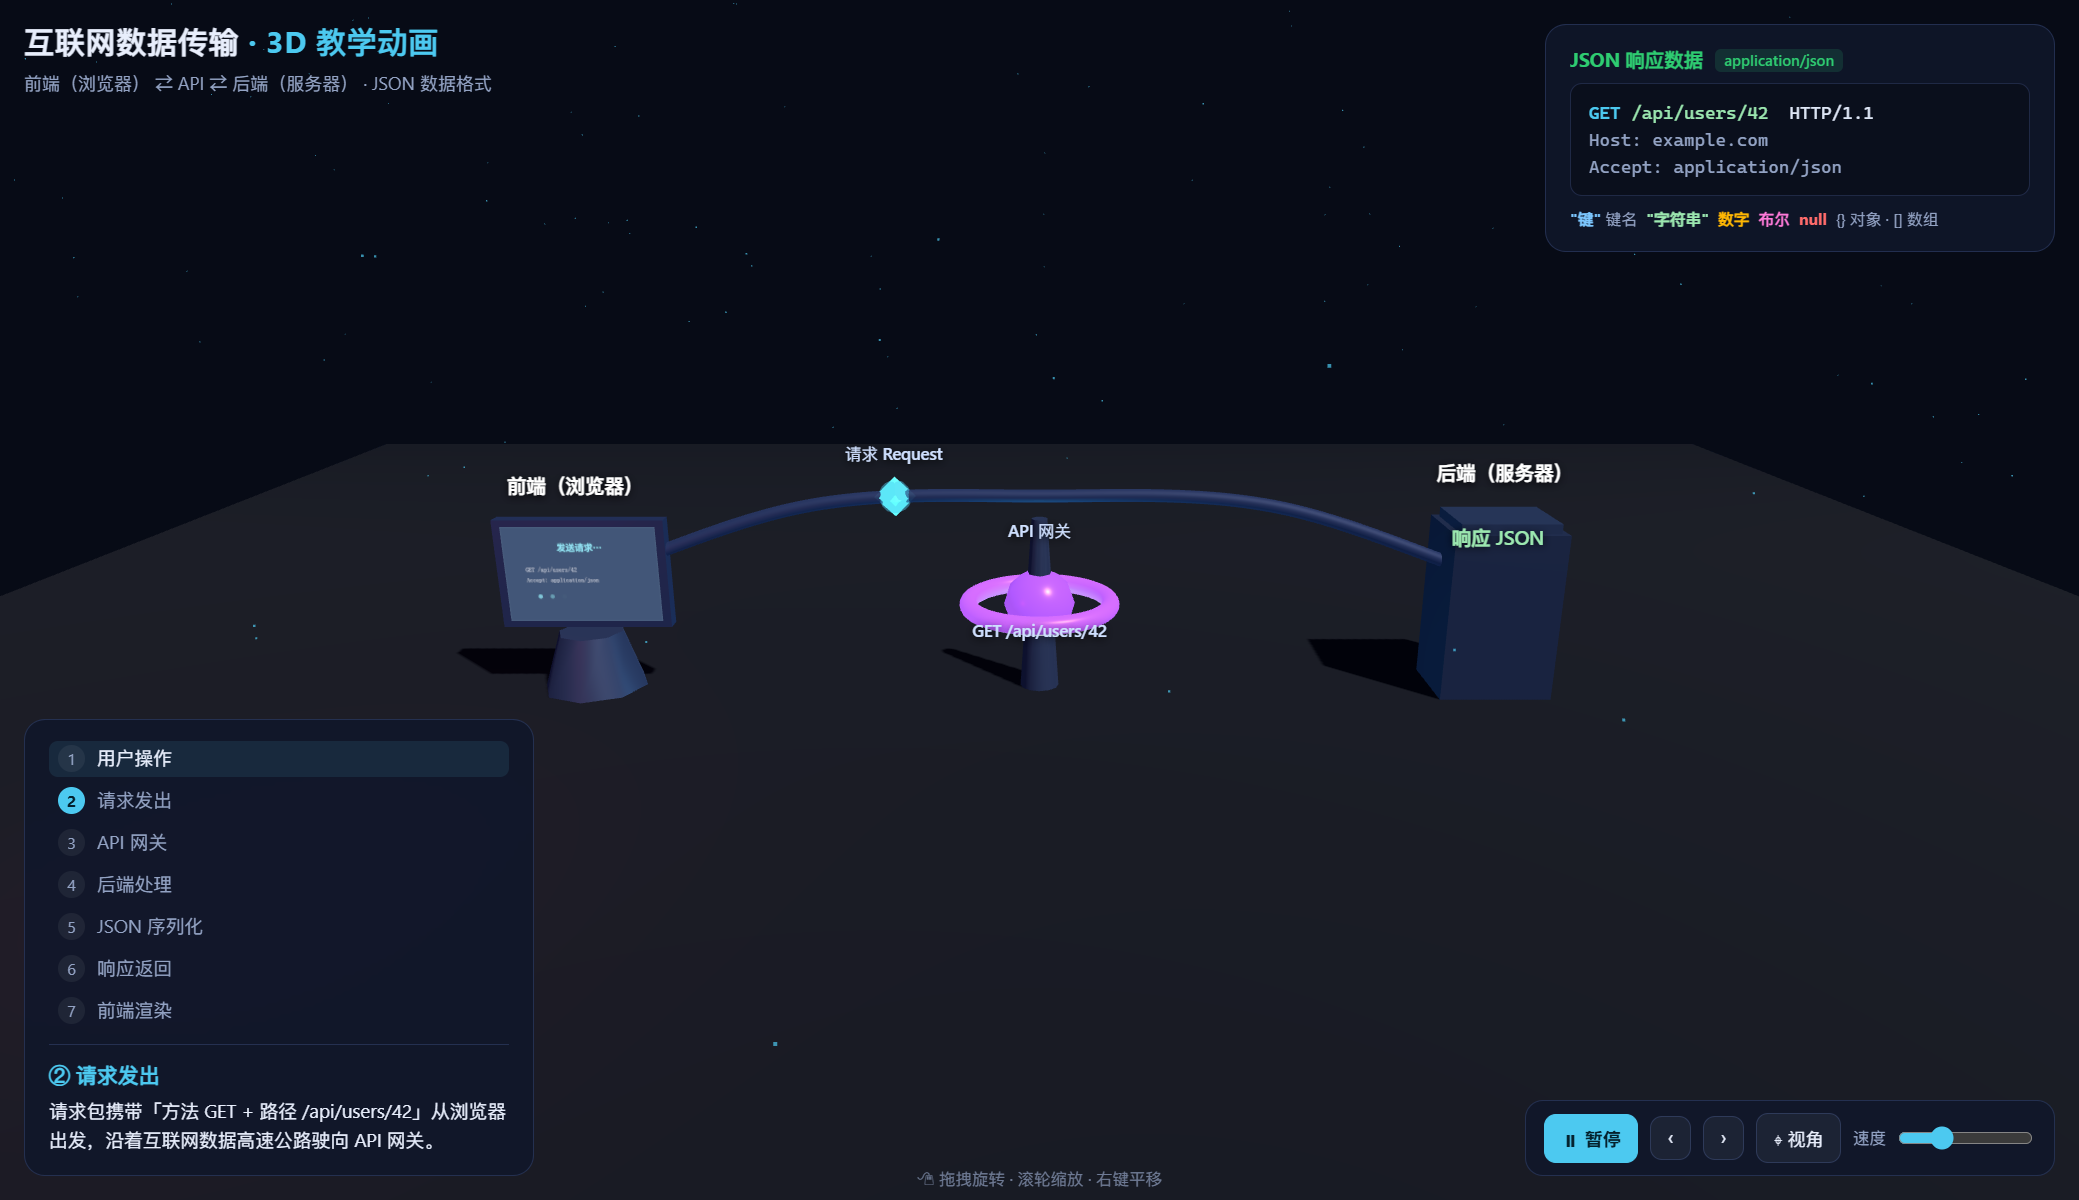
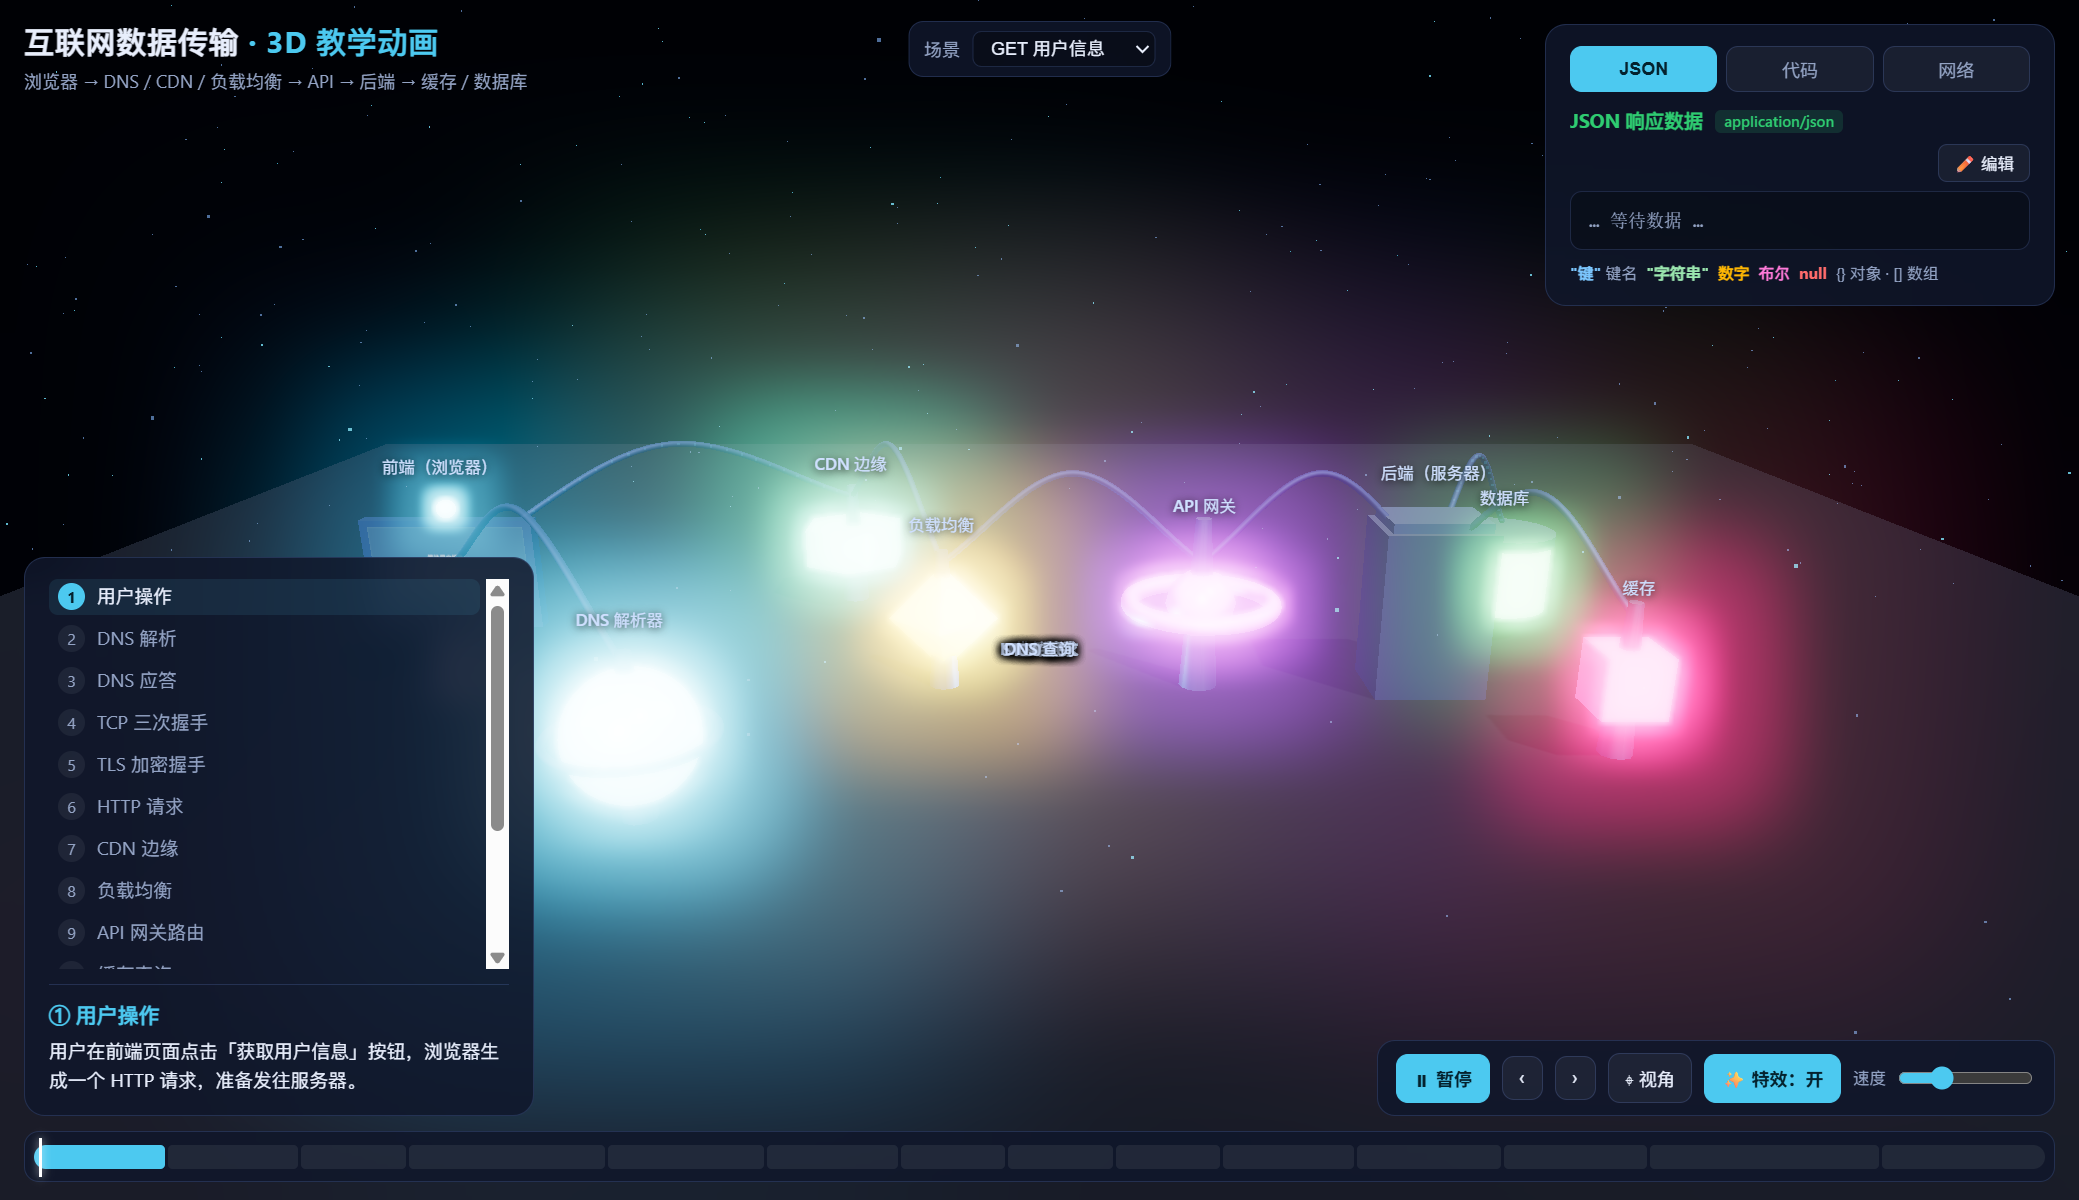
docs: 更新 README 至最终功能 + 刷新预览图

diff --git a/README.md b/README.md
@@ -1,40 +1,22 @@
 # 互联网数据传输 · 3D 教学动画
 
-一个基于 **Three.js + Vite + TypeScript** 的交互式 3D 教学动画，用可视化方式演示"一次完整的数据请求"如何在前端、后端、API 之间流转，并讲解 **JSON 数据格式**。
+一个基于 **Three.js + Vite + TypeScript** 的交互式 3D 教学模拟器，可视化演示"一次完整的数据请求"如何穿过 DNS、CDN、负载均衡、API 网关、后端、缓存与数据库，并讲解 **JSON 数据格式**。
 
-## ✨ 演示内容
+## ✨ 功能特性
 
-动画以一个典型场景为例：**用户在前端点击「获取用户信息」**，请求穿过互联网到达服务器，后端处理后返回 **JSON 数据**。整个过程拆解为 7 个步骤自动循环播放：
-
-| 步骤 | 名称 | 说明 |
-|------|------|------|
-| ① | 用户操作 | 用户点击按钮，浏览器生成 HTTP 请求 |
-| ② | 请求发出 | 请求包（`GET /api/users/42`）从前端驶向 API 网关 |
-| ③ | API 网关 | API 解析路由，把请求转发给后端 |
-| ④ | 后端处理 | 后端查询数据库，形成数据对象 |
-| ⑤ | JSON 序列化 | 后端把对象序列化成 JSON 字符串 |
-| ⑥ | 响应返回 | JSON 响应包经 API 返回前端 |
-| ⑦ | 前端渲染 | 前端解析 JSON，渲染页面，传输完成 |
-
-## 🗺 3D 场景拓扑
-
-```
- 前端（浏览器） ────── 数据高速公路 ────── 后端（服务器）
-        │                                      │
-        └──────────── API 网关（中枢） ─────────┘
-```
-
-- **蓝色数据包** = 请求（Request）
-- **绿色数据包** = 响应 + JSON 数据
-- 管道路径上的流动粒子 = 正在传输的数据流
-
-右侧面板实时展示 **JSON 响应数据**，并用不同颜色标注各数据类型的语法：🔵 键名、🟢 字符串、🟡 数字、🩷 布尔、🔴 `null`，以及 `{}` 对象、`[]` 数组。
+- **8 节点拓扑**：前端浏览器 / DNS / CDN / 负载均衡 / API 网关 / 后端 / 缓存 / 数据库
+- **14 步完整请求生命周期**（GET 场景）：用户操作 → DNS 解析 → TCP 三次握手 → TLS 握手 → HTTP 请求 → CDN → 负载均衡 → API 路由 → 缓存 → 数据库 → JSON 序列化 → 响应返回 → 前端渲染
+- **4 个教学场景**：`GET 用户信息`（200）、`POST 创建用户`（201）、`404 资源不存在`、`429 请求限流`
+- **时间轴拖拽回放**：底部时间轴可拖动/点击回放到任意步骤
+- **节点点击详情**：点击任意节点弹出其角色、IP、说明
+- **可编辑 JSON**：直接修改 JSON 载荷，实时参与动画与前端渲染
+- **代码同步高亮**：前端 `fetch` 与后端 `Express` 代码随动画逐行高亮
+- **DevTools 网络瀑布**：请求/响应状态码 + 各阶段耗时瀑布图
+- **视觉真实感**：UnrealBloom 发光、RoomEnvironment 环境反射、PBR 材质、粒子、空闲自动运镜
 
 ## 🚀 如何运行
 
-**方式一：一键启动（Windows）**
-
-双击 `start.bat` —— 自动检测 Node、安装依赖并启动开发服务器，浏览器会自动打开。
+**方式一：一键启动（Windows）** —— 双击 `start.bat`（自动检测 Node、装依赖、启动并打开浏览器）。
 
 **方式二：命令行**
 
@@ -46,7 +28,7 @@ npm run dev      # 开发模式，浏览器打开 http://localhost:5173
 **生产构建**
 
 ```bash
-npm run build    # 类型检查 + 构建，输出到 dist/
+npm run build    # 类型检查 + 构建到 dist/
 npm run preview  # 本地预览构建产物
 ```
 
@@ -56,41 +38,39 @@ npm run preview  # 本地预览构建产物
 
 | 操作 | 效果 |
 |------|------|
-| 鼠标拖拽 | 旋转视角 |
-| 滚轮 | 缩放 |
-| 右键拖拽 | 平移视角 |
-| ⏸/▶ 播放 | 暂停 / 继续自动播放 |
-| ‹ › | 逐步前进 / 后退（分步讲解） |
-| 速度滑块 | 调整动画播放速度 |
-| ⌖ 视角 | 重置相机到默认视角 |
+| 鼠标拖拽 / 滚轮 / 右键 | 旋转 / 缩放 / 平移视角 |
+| ⏸/▶ | 播放 / 暂停 |
+| ‹ › | 逐步前进 / 后退 |
+| 底部时间轴 | 拖拽 / 点击回放到任意时刻 |
+| 场景下拉框 | 切换 GET/POST/404/限流场景 |
+| 点击 3D 节点 | 查看节点详情 |
+| JSON 面板 ✏ | 编辑载荷（保持 id/name/role/skills/active 结构） |
+| ✨ 特效 | 开/关 Bloom 后期特效 |
 
 ## 📁 目录结构
 
 ```
 json-tech-02/
-├── index.html            # Vite 入口（挂载壳 + HUD DOM）
-├── package.json / tsconfig.json / vite.config.js
+├── index.html            # Vite 入口
 ├── src/
 │   ├── main.ts           # 装配入口
-│   ├── style.css         # HUD 样式
-│   ├── core/             # 渲染器 / 相机 / 循环引擎
-│   ├── world/            # 场景 / 节点 / 路径 / 数据包
-│   ├── ui/               # HUD 面板与交互
-│   └── data/             # 步骤数据与类型
-├── legacy.html           # 旧单文件版本备份（参考）
-└── README.md
+│   ├── style.css
+│   ├── core/             # renderer（Bloom/环境贴图）/ camera / engine（数据驱动时间线）
+│   ├── world/            # scene / nodes / links / packets
+│   ├── ui/               # hud / panels(JSON·代码·网络) / timeline / inspector
+│   └── data/             # types / scenarios（4 场景 + 载荷 + 示例代码）
+├── legacy.html           # 旧单文件版本（历史参考）
+└── start.bat             # Windows 一键启动
 ```
 
 ## 🛠 技术栈
 
-- **Three.js** 0.160 —— 3D 渲染（WebGL）
-- **Vite** 5 —— 开发服务器与构建
-- **TypeScript** 5 —— 类型安全、模块化
-- **OrbitControls** / **CSS2DRenderer** —— 相机控制与 3D 文字标签
+- **Three.js** 0.160（WebGL 渲染 + EffectComposer/UnrealBloomPass + RoomEnvironment）
+- **Vite** 5 · **TypeScript** 5 · **OrbitControls** · **CSS2DRenderer**
 
 ## 🎓 教学要点（JSON 数据格式）
 
-演示使用的 JSON 响应：
+演示 JSON 响应：
 
 ```json
 {
@@ -102,18 +82,7 @@ json-tech-02/
 }
 ```
 
-JSON 是一种**轻量、易读、跨语言**的文本数据格式，核心规则：
-
-1. 数据以 **键值对** 形式存储，键必须用双引号包裹：`"name": "小明"`
-2. 支持 **字符串、数字、布尔值、null、数组、对象** 六种类型
-3. **数组** 用 `[]` 表示有序列表，**对象** 用 `{}` 表示无序键值集合
-4. 前后端约定用 `Content-Type: application/json` 标识数据格式
-
-## 🔧 开发命令
-
-```bash
-npm run dev         # 启动开发服务器
-npm run type-check  # TypeScript 类型检查
-npm run build       # 类型检查 + 生产构建
-npm run preview     # 预览构建产物
-```
+1. 数据以 **键值对** 存储，键必须用双引号包裹
+2. 支持 **字符串 / 数字 / 布尔 / null / 数组 / 对象** 六种类型
+3. **数组** `[]` 有序列表，**对象** `{}` 无序键值集合
+4. 前后端用 `Content-Type: application/json` 标识数据格式
